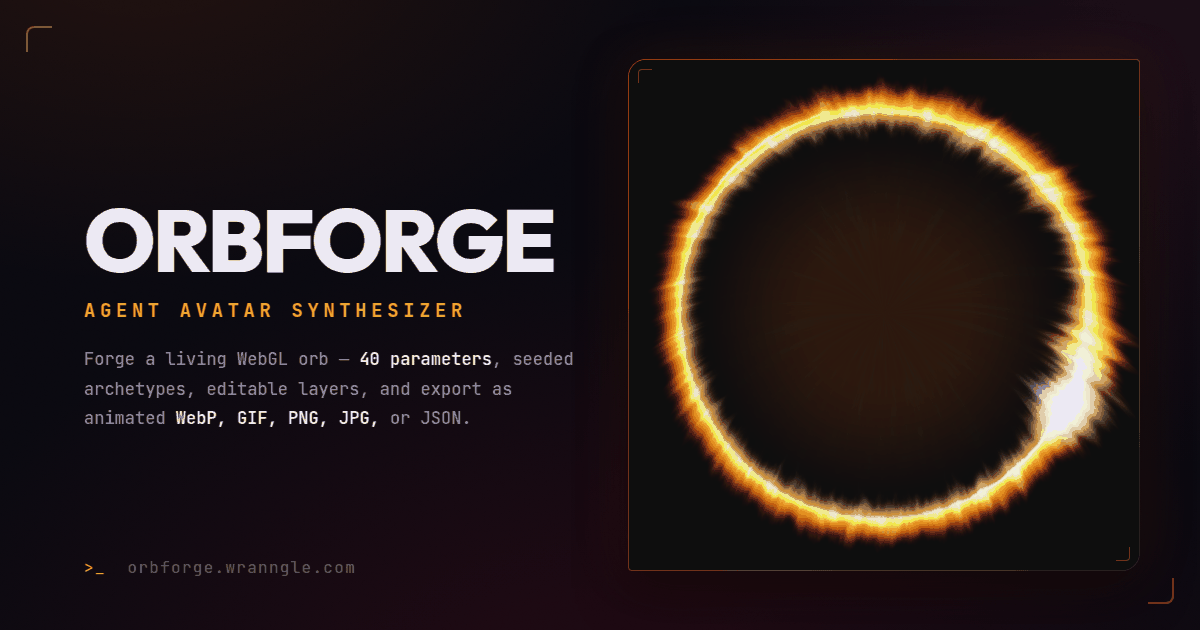
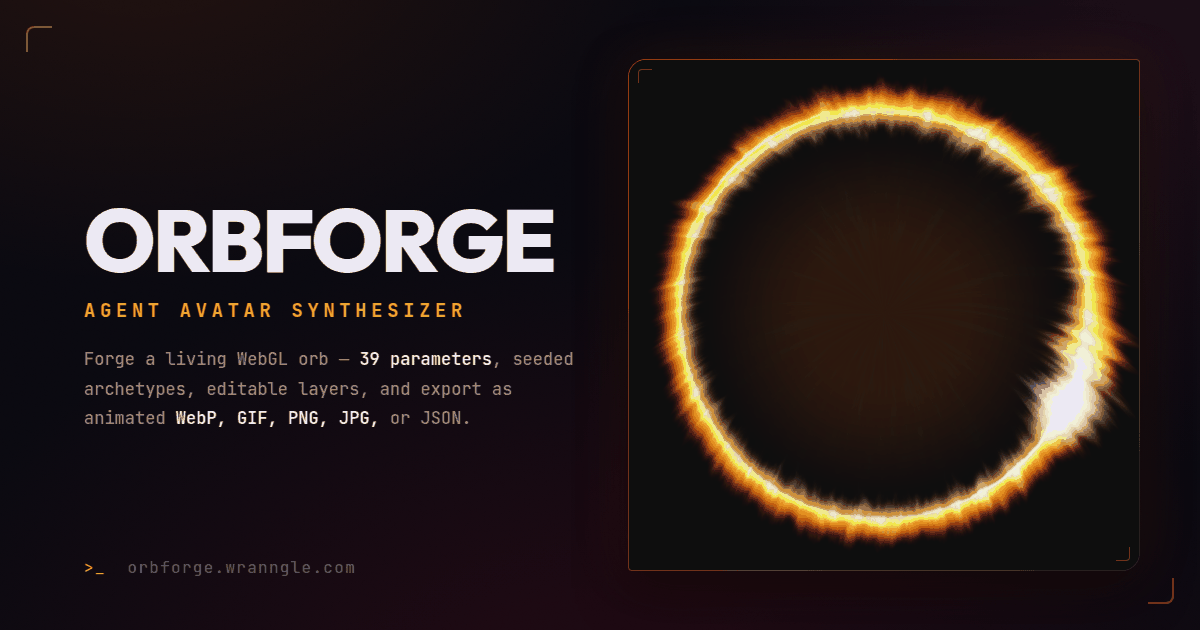
chore(coherence): fix stale param-count/format drift in OG card + llms.txt
Coherence sweep after the 1.2.0 bump found the "39 params" claim had gone
stale in surfaces the drift guard didn't cover:

- scripts/make-og-card.mjs baked "40 parameters" into the social share card
  → 39, and regenerated assets/og.png so the live unfurl is correct.
- llms.txt described export as only "WebP or GIF" → now lists WebP, GIF, PNG,
  JPG, and JSON (matches the app's five formats).
- index.html export-dialog comment "WebP / GIF" → "WebP · GIF · PNG · JPG · JSON".
- Bound the OG card's param count into the "N parameters" drift guard alongside
  index.html/README/package.json, so no surface can drift again (guard now
  asserts meta=readme=pkg=og=sliders).

dist/ is correctly gitignored local build output (deploy.yml regenerates it),
not tracked — no action. e2e 59/59.

Claude-Session: https://claude.ai/code/session_01HTYsXhqosPtBuJt4jE3LHj

diff --git a/index.html b/index.html
@@ -1086,7 +1086,7 @@ dialog input[type=text].wide:focus{outline:none;border-color:var(--sunset-500);b
 </div>
 
 <!-- ============================================================
-     Export dialog — WebP / GIF
+     Download dialog — WebP · GIF · PNG · JPG · JSON
      ============================================================ -->
 <dialog id="dlgExport" aria-labelledby="dlgExportTitle">
   <div class="dlg-head" id="dlgExportTitle">Download